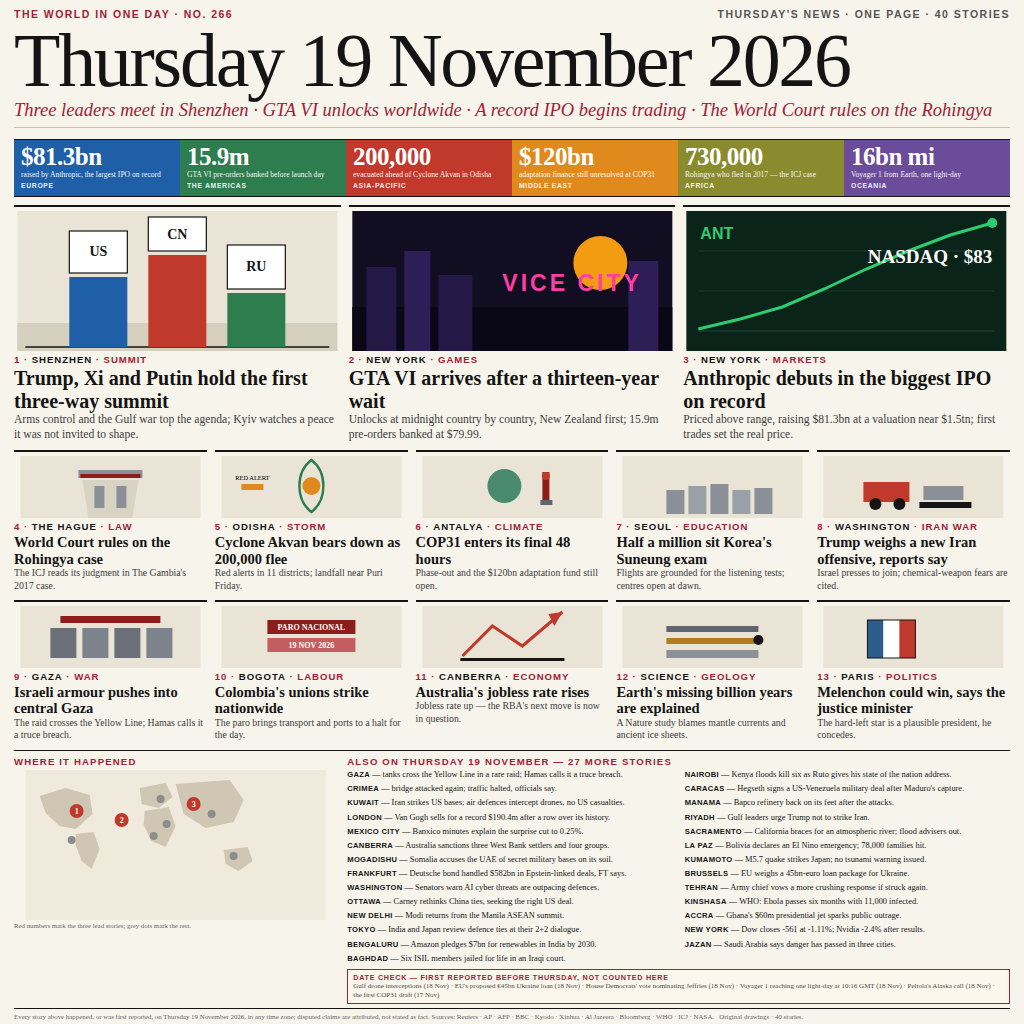
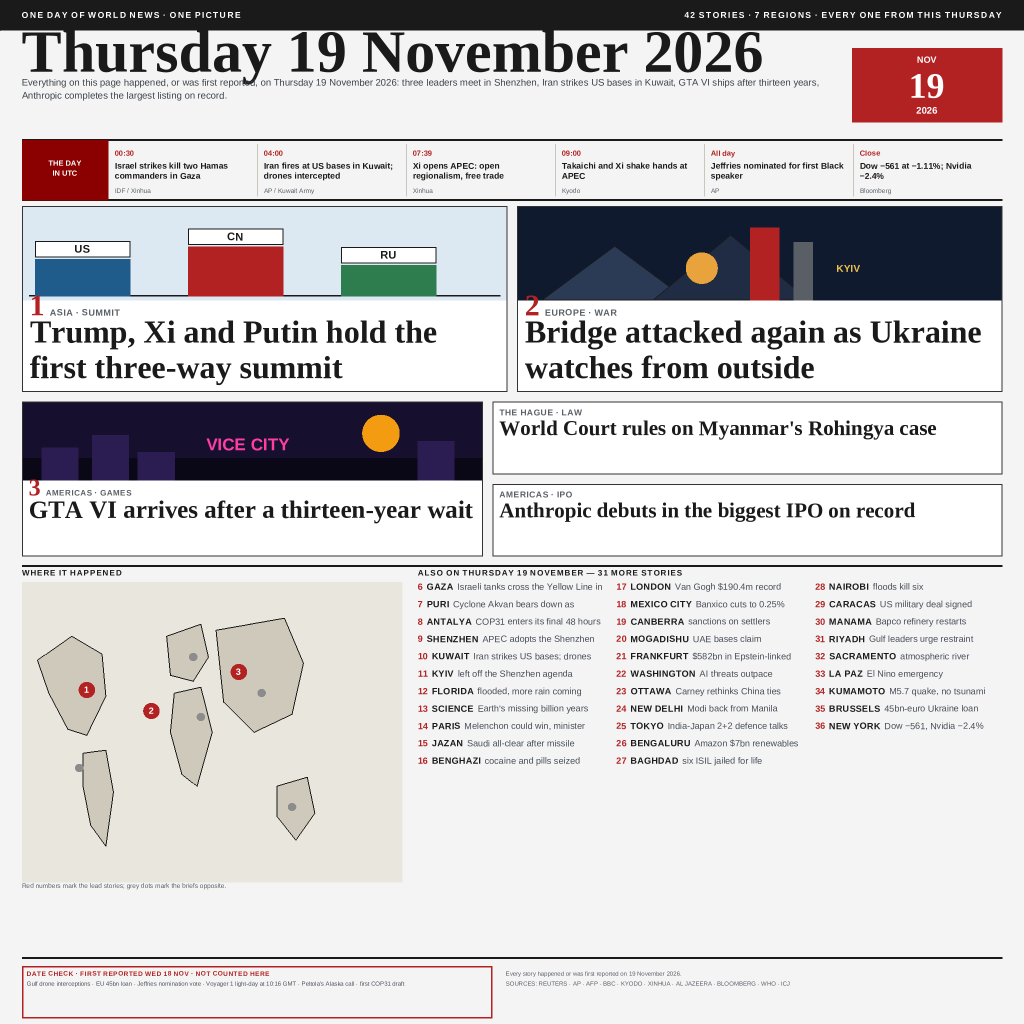
Fill the lower half: taller map, three-column briefs

diff --git a/frontpage.py b/frontpage.py
@@ -42,9 +42,9 @@ CONTENT_W = CONTENT_X1 - CONTENT_X0
 BAND_STRAP = (0.0, 30.0)
 BAND_MAST = (30.0, 140.0)
 BAND_TIME = (140.0, 200.0)
-BAND_ROW3 = (210.0, 462.0)
-BAND_ROW4 = (472.0, 640.0)
-BAND_MAP = (650.0, 950.0)
+BAND_ROW3 = (206.0, 556.0)
+BAND_ROW4 = (556.0, 556.0)
+BAND_MAP = (566.0, 946.0)
 BAND_FOOT = (958.0, 1024.0)
 
 # --------------------------------------------------------------------------
@@ -146,17 +146,15 @@ LEADS = (
 )
 
 SECONDS = (
-    ("court", "The Hague \u00b7 Law", "World Court rules on Myanmar's Rohingya case",
+    ("court", "The Hague · Law", "World Court rules on Myanmar's Rohingya case",
      "The ICJ reads its judgment in The Gambia's case."),
-    ("ipo", "Americas \u00b7 IPO", "Anthropic debuts in the biggest IPO on record",
+    ("ipo", "Americas · IPO", "Anthropic debuts in the biggest IPO on record",
      "Priced above range, raising $81.3bn near a $1.5tn value."),
-    ("gaza", "Middle East \u00b7 Gaza", "Israeli tanks cross the Yellow Line in a rare raid",
-     "Hamas calls it a truce breach; strikes kill five despite the deal."),
-    ("storm", "Asia \u00b7 Weather", "Cyclone Akvan bears down as 200,000 flee",
-     "Red alerts in 11 districts; landfall near Puri due Friday."),
 )
 
 MORE = (
+    ("Gaza", "Israeli tanks cross the Yellow Line in a rare raid; Hamas calls it a truce breach"),
+    ("Puri", "Cyclone Akvan bears down as 200,000 flee; red alerts in 11 districts"),
     ("Antalya", "COP31 enters its final 48 hours"),
     ("Shenzhen", "APEC adopts the Shenzhen Declaration"),
     ("Kuwait", "Iran strikes US bases; drones downed"),
@@ -199,7 +197,7 @@ FOOT_SOURCES = ("SOURCES: REUTERS \u00b7 AP \u00b7 AFP \u00b7 BBC \u00b7 KYODO "
 
 
 def story_count() -> int:
-    """Stories counted from the card lists: 6 timeline beats, 3 leads, 4 seconds, 29 more."""
+    """Stories counted from the card lists: 6 timeline beats, 3 leads, 2 seconds, 31 more."""
     return len(TIMELINE) + len(LEADS) + len(SECONDS) + len(MORE)
 
 
@@ -459,22 +457,94 @@ def _art(c: Canvas, kind: str, x0: float, y0: float, w: float, h: float) -> None
 # --------------------------------------------------------------------------
 
 
+def _lead(c: Canvas, audit: list, x0: float, y0: float, w: float, h: float,
+          number: int, item, big: bool) -> None:
+    art, kicker, headline, body = item
+    _box(c, x0, y0, x0 + w, y0 + h, fill=WHITE, outline=(51, 51, 51), width=1.0)
+
+    art_h = h * 0.5
+    _art(c, art, x0 + 1.0, y0 + 1.0, w - 2.0, art_h)
+
+    pad = 8.0 if big else 7.0
+    inner = w - pad * 2.0
+
+    # story number + kicker share a baseline under the art
+    ny = y0 + art_h + 17.0
+    ns = 30.0 if big else 24.0
+    nf = _ser(c, ns)
+    nw = c.width(str(number), nf)
+    _text(c, x0 + pad, ny, str(number), nf, fill=RED)
+    kf = _cap(c, 9.0 if big else 8.0)
+    c.tracked(x0 + pad + nw + 5.0, ny, kicker.upper(), kf, 0.5, fill=MUTED)
+
+    # serif headline, wrapped to at most 4 lines; pen advances by hs * 1.11
+    hs = 32.0 if big else 25.0
+    hf = _ser(c, hs)
+    hy = ny + 6.0 + c.cap_height(hf)
+    for line in _wrap_lines(c, headline, hf, inner, 4):
+        _text(c, x0 + pad, hy, line, hf)
+        audit.append(("lead_head", c.width(line, hf), inner))
+        hy += hs * 1.11
+
+    pf = _cap(c, 10.4, "regular")
+    py = hy + 2.0
+    room = y0 + h - 5.0 - py
+    line_h = 12.6
+    max_lines = max(0, int(room / line_h))
+    for line in _wrap_lines(c, body, pf, inner, max_lines):
+        _text(c, x0 + pad, py, line, pf, fill=(70, 76, 85))
+        audit.append(("lead_body", c.width(line, pf), inner))
+        py += line_h
+
+
+def _side_stack(c: Canvas, audit: list, x0: float, y0: float, w: float,
+                h: float) -> None:
+    gap = 10.0
+    bh = (h - gap) / 2.0
+    for i, item in enumerate(SECONDS):
+        art, kicker, headline, body = item
+        by0 = y0 + i * (bh + gap)
+        _box(c, x0, by0, x0 + w, by0 + bh, fill=WHITE,
+             outline=(51, 51, 51), width=1.0)
+
+        pad = 7.0
+        inner = w - pad * 2.0
+        kf = _cap(c, 8.6)
+        c.tracked(x0 + pad, by0 + 14.0, kicker.upper(), kf, 0.5, fill=MUTED)
+
+        hs = 21.0
+        hf = _ser(c, hs)
+        hy = by0 + 14.0 + 6.0 + c.cap_height(hf)
+        for line in _wrap_lines(c, headline, hf, inner, 3):
+            _text(c, x0 + pad, hy, line, hf)
+            audit.append(("side_head", c.width(line, hf), inner))
+            hy += hs * 1.11
+
+
 def _row3(c: Canvas, audit: list) -> None:
     y0, y1 = BAND_ROW3
     gap = 10.0
-    w = (CONTENT_W - gap * 2.0) / 3.0
-    for i, (art, kicker, head, body) in enumerate(LEADS):
-        x0 = CONTENT_X0 + i * (w + gap)
-        _card(c, audit, x0, y0, w, y1 - y0, i + 1, kicker, head, body, art, True)
+
+    band_h = y1 - y0
+    top_h = band_h * 0.53
+    top_w = (CONTENT_W - gap) / 2.0
+    for i in range(2):
+        x0 = CONTENT_X0 + i * (top_w + gap)
+        _lead(c, audit, x0, y0, top_w, top_h, i + 1, LEADS[i], True)
+
+    bot_y = y0 + top_h + gap
+    bot_h = y1 - bot_y
+    bot_w = CONTENT_W * 0.47
+    _lead(c, audit, CONTENT_X0, bot_y, bot_w, bot_h, 3, LEADS[2], False)
+
+    stack_x = CONTENT_X0 + bot_w + gap
+    stack_w = CONTENT_X1 - stack_x
+    _side_stack(c, audit, stack_x, bot_y, stack_w, bot_h)
 
 
 def _row4(c: Canvas, audit: list) -> None:
-    y0, y1 = BAND_ROW4
-    gap = 10.0
-    w = (CONTENT_W - gap * 3.0) / 4.0
-    for i, (art, kicker, head, body) in enumerate(SECONDS):
-        x0 = CONTENT_X0 + i * (w + gap)
-        _card(c, audit, x0, y0, w, y1 - y0, i + 4, kicker, head, body, art, False)
+    # band has zero height now; the second tier moved into the briefs list
+    return
 
 
 # --------------------------------------------------------------------------
@@ -518,9 +588,9 @@ def _bottom(c: Canvas, audit: list) -> None:
     head = _cap(c, 8.0)
     top = y0 + 10.0
     c.tracked(CONTENT_X0, top, "WHERE IT HAPPENED", head, 1.0)
-    _map(c, CONTENT_X0, top + 6.0, map_w, 168.0)
+    _map(c, CONTENT_X0, top + 6.0, map_w, 300.0)
     note = _cap(c, 6.4, "regular")
-    _text(c, CONTENT_X0, top + 186.0,
+    _text(c, CONTENT_X0, top + 312.0,
           "Red numbers mark the lead stories; grey dots mark the briefs opposite.",
           note, fill=MUTED)
 
@@ -529,19 +599,20 @@ def _bottom(c: Canvas, audit: list) -> None:
     c.tracked(list_x, top, "ALSO ON THURSDAY 19 NOVEMBER \u2014 %d MORE STORIES"
               % len(MORE), head, 1.0)
 
-    col_w = (list_w - 12.0) / 2.0
-    per_col = (len(MORE) + 1) // 2
-    num_f = _cap(c, 7.2)
-    city_f = _cap(c, 7.2)
-    body_f = _cap(c, 7.2, "regular")
-    row_h = 13.4
+    ncol = 3
+    col_w = (list_w - 12.0 * (ncol - 1)) / ncol
+    per_col = (len(MORE) + ncol - 1) // ncol
+    num_f = _cap(c, 9.0)
+    city_f = _cap(c, 9.0)
+    body_f = _cap(c, 9.0, "regular")
+    row_h = 17.4
     start = top + 14.0
     for i, (city, text) in enumerate(MORE):
         col = i // per_col
         row = i % per_col
         x0 = list_x + col * (col_w + 12.0)
         yy = start + row * row_h
-        label = "%d" % (i + 8)
+        label = "%d" % (i + 6)
         nw = c.width(label, num_f)
         _text(c, x0, yy, label, num_f, fill=RED)
         cw = c.tracked(x0 + nw + 4.0, yy, city.upper(), city_f, 0.3)
